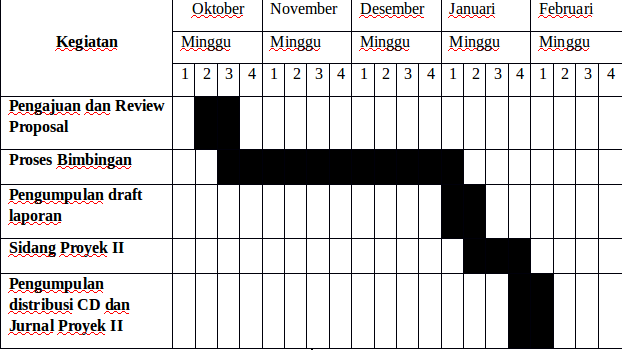
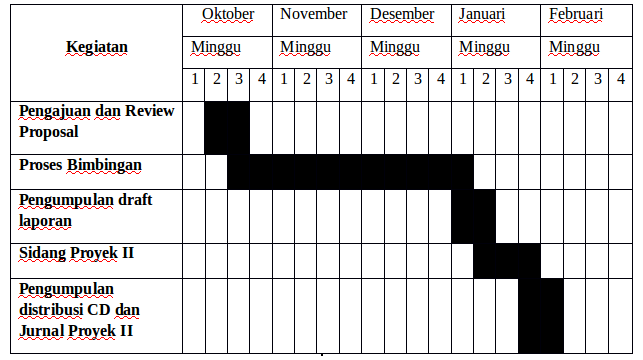
Update Bab I Proposal

Changed region(s): [[0.0, 0.0, 1.0, 1.0], [0.0916, 0.0857, 0.2138, 0.1714]]

diff --git a/doc/proposal/BAB-I.md b/doc/proposal/BAB-I.md
@@ -70,7 +70,7 @@ Dalam penyusunan proposal proyek II, penulis membatasi pembahasan hanya pada:
 <strong>1.5 Jadwal Kegiatan Pengerjaan Proyek</strong>
 <p align="justify">
 <p align="center">
-    <img src="../../img/proposal/jadwal.png" width="450" height="300">
+    <img src="../../img/proposal/jadwal.png" width="650" height="300">
     <br>
     Tabel 1.1 Jadwal Kegiatan Pengerjaan Proyek
 </p>
